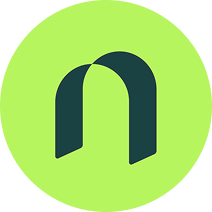
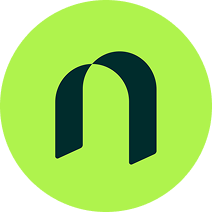
Fix: update namuh-badge image, update index.html and styles.css for project links and badges

Changed region(s): [[0.2547, 0.2264, 0.7358, 0.7925]]

diff --git a/index.html b/index.html
@@ -21,7 +21,7 @@
             </div>
             <div class="hero-content">
                 <h1>Shaping a 'Heartfelt' Experience through Logical Design Thinking</h1>
-                <p>Nayeong Kim is a product designer and HCI researcher, currently studying Master of Industrial Design at KAIST. Her passion lies in addressing underlying needs and integrating technologies to bring delight to users.</p>
+                <p>Nayeong Kim is a product designer and HCI researcher, currently studying Master of Industrial Design at KAIST (Next Interface Lab). Her passion lies in addressing underlying needs and integrating technologies to bring delight to users.</p>
             </div>
         </section>
 
@@ -37,17 +37,19 @@
                 <!-- Project 1: Dear -->
                 <div class="project-card">
                     <div class="project-image">
-                        <img src="assets/images/dear.jpg" alt="Dear: VR Memorial Experience">
-                        <div class="project-badge if-badge"></div>
-                        <div class="project-badge chi-badge">
-                            <img src="assets/images/chi2025.png" alt="CHI 2025">
-                        </div>
+                      <img src="assets/images/dear.jpg" alt="Dear: VR Memorial Experience">
+                      <!-- if 뱃지: 외부 링크로 변경 -->
+                      <a href="https://ifdesign.com/en/winner-ranking/project/dear/616445" target="_blank" class="project-badge if-badge"></a>
+                      <!-- chi 뱃지: 외부 링크로 변경 -->
+                      <a href="https://dl.acm.org/doi/10.1145/3706599.3719871" target="_blank" class="project-badge chi-badge">
+                        <img src="assets/images/chi2025.png" alt="CHI 2025">
+                      </a>
                     </div>
                     <div class="project-info">
-                        <span class="project-client">SYSTEM DESIGN PROJECT</span>
-                        <h3 class="project-title">Dear: Designing a VR Memorial Experience to connect the families</h3>
+                      <span class="project-client">SYSTEM DESIGN PROJECT</span>
+                      <h3 class="project-title">Dear: Designing a VR Memorial Experience to connect the families</h3>
                     </div>
-                </div>
+                  </div>
 
                 <!-- Project 2: SmartALL -->
                 <!-- 

diff --git a/css/styles.css b/css/styles.css
@@ -398,7 +398,6 @@ body {
     border-radius: 50%;
     background-image: url('../assets/images/namuh-badge.png');
     background-size: cover;
-    opacity: 0.8;
 }
 
 .watch-image {
